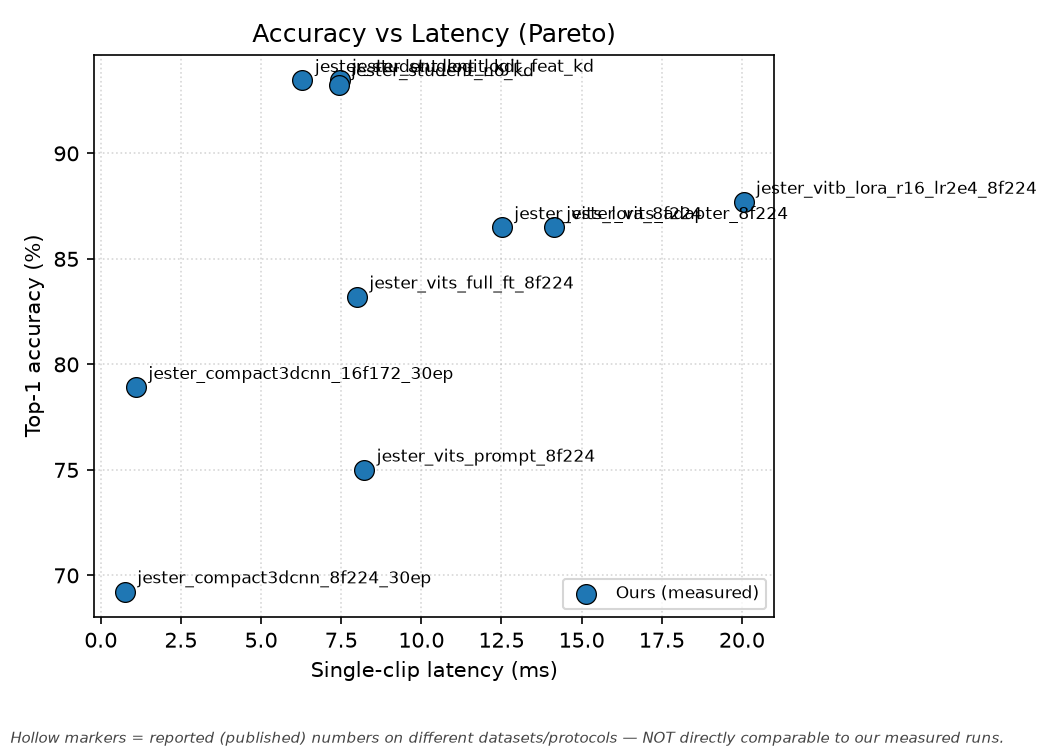
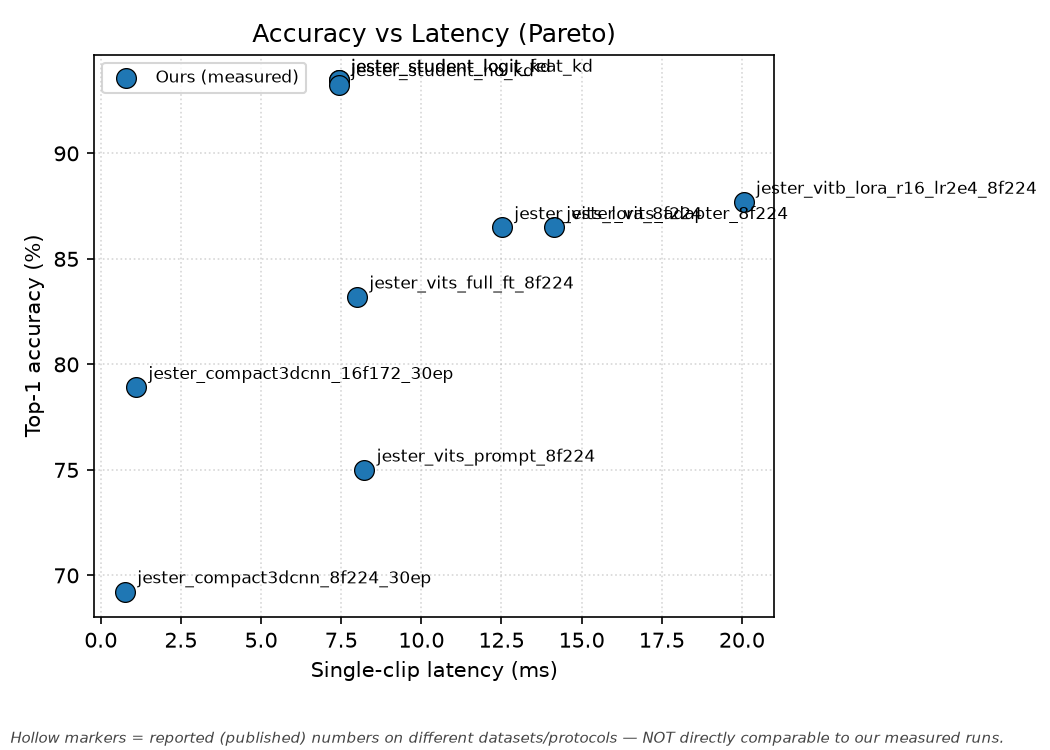
report: collapse 3 identical students to one latency point; mark FPS indicative
Two reporting fixes (no re-running):

1. The KD / logit-KD / no-KD students are the SAME architecture at inference
   (training-only distinction), so their 134/159/135 bs1 FPS is one number with
   measurement noise, not three operating points. Collapse to a single student
   latency (median-of-medians = 134.8 FPS) in the frontier figure + tables
   (viz/loader.py student-collapse) and show one row with a footnote in README.
   Prevents the "noisy latency" critique the re-bench was meant to kill.

2. Mark FPS INDICATIVE, not precisely reproducible: absolute FPS carries
   run-to-run variance from unlocked GPU boost clocks (nvidia-smi -lgc needs
   admin, unavailable on laptop) -- baseline spreads ~940-1440 warm. State this
   explicitly in README + SANITY; efficiency claim continues to LEAD on exact
   FLOPs, FPS is supporting.

Regenerated tables + latency Pareto.

Changed region(s): [[0.0914, 0.0613, 0.579, 0.1227], [0.5486, 0.7667, 0.7314, 0.828]]

diff --git a/src/viz/loader.py b/src/viz/loader.py
@@ -186,14 +186,35 @@ def load_results(results_dir: str | Path = "experiments") -> pd.DataFrame:
         try:
             rb = json.loads(rebench_path.read_text(encoding="utf-8"))
             by_name = {r["run_name"]: r for r in rb.get("rows", [])}
+            # The KD / logit-KD / no-KD students are architecturally IDENTICAL at
+            # inference (the distinction is training-only). Report ONE student
+            # latency for all three — any per-run FPS spread (134/159/135) is pure
+            # measurement noise, not distinct operating points. Use the
+            # median-of-medians across the three student runs.
+            stu = [r for r in rb.get("rows", []) if "student" in r["run_name"]
+                   and r.get("bs1_fps_median") is not None]
+            stu_fps = stu_ms = None
+            if stu:
+                fps_sorted = sorted(r["bs1_fps_median"] for r in stu)
+                ms_sorted = sorted(r["bs1_latency_ms_median"] for r in stu
+                                   if r.get("bs1_latency_ms_median") is not None)
+                stu_fps = fps_sorted[len(fps_sorted) // 2]
+                stu_ms = ms_sorted[len(ms_sorted) // 2] if ms_sorted else None
             n_over = 0
             for row in rows:
-                rbr = by_name.get(row.get("run_name"))
+                name = row.get("run_name", "")
+                if stu_fps is not None and "student" in name:
+                    row["single_clip_fps"] = stu_fps       # one shared number
+                    row["single_clip_latency_ms"] = stu_ms
+                    n_over += 1
+                    continue
+                rbr = by_name.get(name)
                 if rbr and rbr.get("bs1_fps_median") is not None:
                     row["single_clip_fps"] = rbr["bs1_fps_median"]
                     row["single_clip_latency_ms"] = rbr.get("bs1_latency_ms_median")
                     n_over += 1
-            log.info("Applied re-bench FPS/latency override to %d/%d runs.", n_over, n_ours)
+            log.info("Applied re-bench FPS/latency override to %d/%d runs "
+                     "(students collapsed to one latency = %s FPS).", n_over, n_ours, stu_fps)
         except (json.JSONDecodeError, OSError, KeyError) as exc:
             log.warning("Could not apply re-bench override (%s); using per-run FPS.", exc)
 

diff --git a/paper/tables.tex b/paper/tables.tex
@@ -14,8 +14,8 @@ fp32\_prune0.3 & ours & TODO & 3.11 & TODO & 9.93 & TODO & TODO & TODO & 12.031 
 fp32\_prune0.5 & ours & TODO & 3.11 & TODO & 3.56 & TODO & TODO & TODO & 12.031 \\
 int8\_ptq\_prune0.0 & ours & TODO & 3.11 & TODO & 93.49 & TODO & TODO & TODO & 11.998 \\
 int8\_qat\_prune0.0 & ours & TODO & 3.11 & TODO & TODO & TODO & TODO & TODO & 3.606 \\
-jester\_student\_logit\_feat\_kd & ours & jester & 3.11 & 6.20 & 93.47 & 134.2 & 7.45 & 2463.8 & 12.031 \\
-jester\_student\_logit\_kd & ours & TODO & 3.11 & 6.20 & 93.46 & 158.9 & 6.29 & 2440.1 & 12.031 \\
+jester\_student\_logit\_feat\_kd & ours & jester & 3.11 & 6.20 & 93.47 & 134.8 & 7.42 & 2463.8 & 12.031 \\
+jester\_student\_logit\_kd & ours & TODO & 3.11 & 6.20 & 93.46 & 134.8 & 7.42 & 2440.1 & 12.031 \\
 jester\_student\_no\_kd & ours & TODO & 3.11 & 6.20 & 93.26 & 134.8 & 7.42 & 2341.8 & 12.031 \\
 briareo\_rgb & ours & TODO & 1.20 & TODO & 65.97 & TODO & TODO & TODO & 4.600 \\
 briareo\_rgbd & ours & TODO & 2.47 & TODO & 68.75 & TODO & TODO & TODO & 9.450 \\

diff --git a/README.md b/README.md
@@ -145,32 +145,42 @@ gesture-video task, at a fraction of the parameters and compute:
 
 | Model | val top-1 | params | GFLOPs | bs=1 FPS | bs=8 FPS |
 |---|---|---|---|---|---|
-| **Streaming 3D-CNN (ours, distilled)** | **93.5 %** | **3.11 M** | **6.2** | ~135 | 211 |
+| **Streaming 3D-CNN (ours, distilled)** | **93.5 %** | **3.11 M** | **6.2** | ~135† | 211 |
 | ViT-B/16 LoRA (properly tuned) | 87.7 % | 100.9 M | 272.9 | 50 | 53 |
 | ViT-S/16 LoRA | 86.5 % | 25.4 M | 68.8 | 80 | 146 |
 
-The efficiency claim rests on **parameters and FLOPs** (deterministic, mutually
-comparable): the purpose-built motion model beats a **fairly-tuned 86 M ViT-B** by
-~5.8 pts at **8× fewer params and ~44× less compute**, and beats ViT-S at ~8×
-fewer params / ~11× less compute. For dynamic gesture *video*, a small
+† The distilled, logit-KD, and no-KD students are the **same architecture at
+inference** (they differ only in training), so they share **one** latency point;
+the ~135–159 FPS spread across their runs is pure measurement noise, not distinct
+operating points.
+
+The efficiency claim rests on **parameters and FLOPs** (deterministic, exact,
+mutually comparable): the purpose-built motion model beats a **fairly-tuned 86 M
+ViT-B** by ~5.8 pts at **8× fewer params and ~44× less compute**, and beats ViT-S
+at ~8× fewer params / ~11× less compute. For dynamic gesture *video*, a small
 motion-native architecture dominates a large per-frame image foundation model —
 the larger model is not merely less efficient, it is **less accurate**.
 
-**On measured latency, read carefully.** FPS above is a single-session,
-warm, median-of-3 re-bench (bs=1 = on-device streaming; bs=8 = batched
-throughput), so rows are mutually comparable — unlike raw per-run numbers, which
-are cross-run thermal artifacts (an earlier draft reported the student at "110
-FPS"; its true bs=1 is ~135). The student leads on bs=1 latency and pulls
-further ahead at bs=8, but note **bs=1 FPS does not cleanly track FLOPs**: ViT-S
-full-FT and prompt bench ~120 FPS despite ~11× the student's compute, because
-bs=1 inference is kernel-launch / memory-bound rather than compute-bound (the
-student's SE + depthwise-separable design especially). We therefore do **not**
-claim a large latency *speedup* over ViT-S — the ViT-S win is params/FLOPs; the
-ViT-B win is all axes. This FLOPs-vs-measured-latency divergence is itself a core
-finding: **FLOPs alone mislead, and on-device cost must be measured and
-reported** — precisely the gap this study fills. (Numbers are PyTorch-eager; a
-deployment stack such as TensorRT would be faster, most of all for the
-launch-bound student.)
+**FPS is INDICATIVE, not a precise reproducible number.** Absolute FPS carries
+run-to-run variance from unlocked GPU boost clocks on this laptop (hardware clock
+locking via `nvidia-smi -lgc` needs admin, unavailable here) — e.g. the baseline
+spreads ~940–1440 FPS across warm repeats. We report **median-of-3, warm,
+single-session** so rows are mutually comparable, and treat FPS as indicative
+while **leading the efficiency claim on FLOPs** (exact). The per-run
+`single_clip_fps` in the individual result JSONs are older cross-run thermal
+artifacts (an earlier draft reported the student at "110 FPS"; its true bs=1 is
+~135) — superseded by the single-session re-bench.
+
+Also note **bs=1 FPS does not cleanly track FLOPs**: ViT-S full-FT and prompt
+bench ~120 FPS despite ~11× the student's compute, because bs=1 inference is
+kernel-launch / memory-bound rather than compute-bound (the student's SE +
+depthwise-separable design especially). We therefore do **not** claim a large
+latency *speedup* over ViT-S — the ViT-S win is params/FLOPs; the ViT-B win is
+all axes. This FLOPs-vs-measured-latency divergence is itself a core finding:
+**FLOPs alone mislead, and on-device cost must be measured and reported** —
+precisely the gap this study fills. (Numbers are PyTorch-eager; a deployment
+stack such as TensorRT would be faster, most of all for the launch-bound
+student.)
 
 ### Contributions (all measured)
 

diff --git a/SANITY.md b/SANITY.md
@@ -33,11 +33,19 @@ lock needs admin = unavailable), warmup=50, timed=500, **median of 3**, bs=1
 | compact3dcnn 8f/224 | 4.01 | 1331 | 0.75 | 1867 |
 
 **Honest reading:**
-- The three **bit-identical** students (all 6.20 GFLOPs) bench 134/159/135 — treat
-  as **~135 FPS**; the ~135–159 residual spread is measurement noise on identical
-  architecture, not a real difference. This directly confirms the old
-  110-vs-45 gap was a cross-run artifact: the student's TRUE bs=1 is ~135 FPS, and
-  the committed README "110" was wrong.
+- The three **bit-identical** students (all 6.20 GFLOPs — KD / logit-KD / no-KD
+  differ only in TRAINING, identical at inference) bench 134/159/135. **Report ONE
+  student latency for all three** (median-of-medians = ~135 FPS / 7.4 ms); the
+  ~135–159 spread is pure measurement noise, NOT distinct operating points. The
+  frontier + tables collapse them to one point (see `viz/loader.py` student
+  collapse). This confirms the old 110-vs-45 gap was a cross-run artifact: the
+  student's true bs=1 is ~135, and the committed README "110" was wrong.
+- **FPS is INDICATIVE, not precisely reproducible.** Absolute FPS carries
+  run-to-run variance from unlocked GPU boost clocks (hardware clock lock via
+  `nvidia-smi -lgc` needs admin — unavailable on this laptop). Even warm +
+  median-of-3, the baseline spreads ~940–1440 FPS across repeats. We report
+  median-of-3 warm for mutual comparability but **lead the efficiency claim on
+  FLOPs** (exact, deterministic); FPS is supporting, not a headline precise value.
 - **bs=1 FPS does NOT track FLOPs.** ViT-S full-FT (125) and prompt (122) bench
   nearly as fast as the student (~135) despite ~11× the FLOPs, because bs=1 is
   kernel-launch / memory-bound, not compute-bound (the student's SE + depthwise-

diff --git a/paper/tables.md b/paper/tables.md
@@ -10,8 +10,8 @@
 | fp32_prune0.5 | ours | TODO | 3.11 | TODO | 3.56 | TODO | TODO | TODO | 12.031 |
 | int8_ptq_prune0.0 | ours | TODO | 3.11 | TODO | 93.49 | TODO | TODO | TODO | 11.998 |
 | int8_qat_prune0.0 | ours | TODO | 3.11 | TODO | TODO | TODO | TODO | TODO | 3.606 |
-| jester_student_logit_feat_kd | ours | jester | 3.11 | 6.20 | 93.47 | 134.2 | 7.45 | 2463.8 | 12.031 |
-| jester_student_logit_kd | ours | TODO | 3.11 | 6.20 | 93.46 | 158.9 | 6.29 | 2440.1 | 12.031 |
+| jester_student_logit_feat_kd | ours | jester | 3.11 | 6.20 | 93.47 | 134.8 | 7.42 | 2463.8 | 12.031 |
+| jester_student_logit_kd | ours | TODO | 3.11 | 6.20 | 93.46 | 134.8 | 7.42 | 2440.1 | 12.031 |
 | jester_student_no_kd | ours | TODO | 3.11 | 6.20 | 93.26 | 134.8 | 7.42 | 2341.8 | 12.031 |
 | briareo_rgb | ours | TODO | 1.20 | TODO | 65.97 | TODO | TODO | TODO | 4.600 |
 | briareo_rgbd | ours | TODO | 2.47 | TODO | 68.75 | TODO | TODO | TODO | 9.450 |
